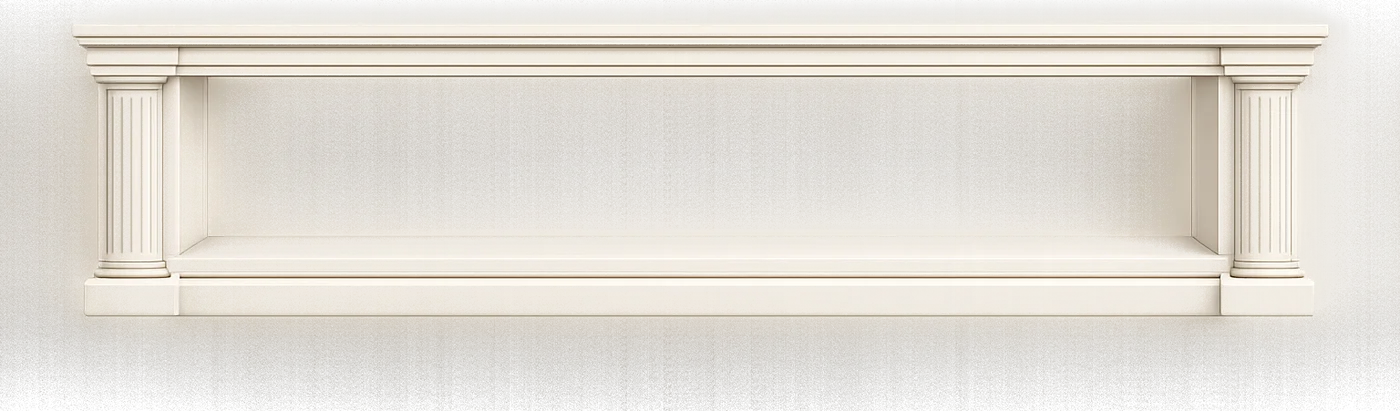
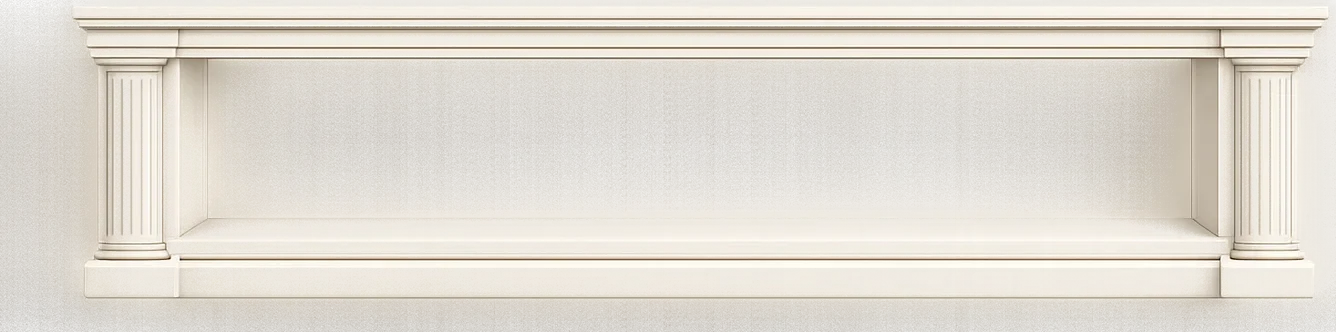
fix: 棚画像をトリミングし端の切り替えを安定させる
- 棚の内側に敷いていた目地の面を撤去する。移動感を足す狙いだったが、
  無数の縦線として見えてしまい造作を壊していた
- 端の開閉をスクロール位置ではなく「送れる棚か」で決める。位置で切り替えると
  枠が戻る → 中身の幅が変わる → 判定が変わる、の往復が起きて表示が乱れていた。
  送れる棚では両端を開けたままにし、送っている間レイアウトを動かさない
- 棚画像の透明な余白を切り落とす。横 1400x332 → 1336x332、縦 820x1478 → 719x1478。
  造作の位置がそのまま画像の座標になるので、slice の値が扱いやすくなる。
  切り落とし後の実測値で slice と枠幅を取り直す（表示は変えない）

Changed region(s): [[0.0, 0.0, 1.0, 1.0]]

diff --git a/frontend/src/components/features/display/ShelfBoard.tsx b/frontend/src/components/features/display/ShelfBoard.tsx
@@ -80,7 +80,7 @@ const SIDE_BORDER = 105
 export function SurfaceBoard({ surface, children }: { surface: Surface; children: ReactNode }) {
   const style = useDisplayStyle()
   const orientation = useShelfOrientation()
-  const { hostRef, atStart, atEnd } = useRailEdges(children)
+  const { hostRef, scrollable } = useRailEdges(children)
 
   if (style === 'simple' || surface !== 'library') return <>{children}</>
 
@@ -88,18 +88,21 @@ export function SurfaceBoard({ surface, children }: { surface: Surface; children
   const stacked = orientation === 'columns'
 
   /*
-    棚の切れ目。中身がまだ送れる側は、柱の枠幅を 0 にする。
+    棚の切れ目。中身が送りきれない棚は、両端の柱の枠幅を 0 にする。
 
     柱をマスクで透過させるだけだと、そこにあった幅が空白として残り、
     棚が痩せたように見えてしまう。棚が続いていることを示したいので、
     枠を落として *その幅を棚の内側に明け渡す*。中身もそのぶん広く使える。
 
+    開閉はスクロール位置ではなく「送れる棚か」で決める。位置で切り替えると
+    枠が戻る → 中身の幅が変わる → 判定が変わる、の往復が起きて表示が乱れるため。
+
     枠幅は 4 辺とも longhand で指定する。shorthand と混ぜると、
     値を戻したときに古い指定が残るかどうかがブラウザ任せになるため。
     切り口は短いマスクで和らげるだけに留める（幅は奪わない）。
   */
-  const openEnd = !atEnd
-  const openStart = !atStart
+  const openEnd = scrollable
+  const openStart = scrollable
   const softCut = 32
 
   /*
@@ -114,18 +117,18 @@ export function SurfaceBoard({ surface, children }: { surface: Surface; children
     ? {
         borderTopWidth: '116px',
         borderBottomWidth: '105px',
-        borderLeftWidth: '105px',
-        borderRightWidth: '105px',
+        borderLeftWidth: '82px',
+        borderRightWidth: '82px',
         borderImageSource: "url('/shelf/vertical.webp')",
-        borderImageSlice: '210 190 190 190 fill',
+        borderImageSlice: '210 150 190 150 fill',
       }
     : {
-        borderTopWidth: '44px',
-        borderBottomWidth: '84px',
+        borderTopWidth: '34px',
+        borderBottomWidth: '51px',
         borderLeftWidth: `${SIDE_BORDER}px`,
         borderRightWidth: `${SIDE_BORDER}px`,
         borderImageSource: "url('/shelf/horizontal.webp')",
-        borderImageSlice: '80 190 153 190 fill',
+        borderImageSlice: '62 190 92 190 fill',
       }
 
   return (
@@ -161,7 +164,7 @@ export function SurfaceBoard({ surface, children }: { surface: Surface; children
           こうするとアイテムは板の上に載って見え、スクロールバーは板の小口に重なる。
         */}
         <div
-          className={`shelf-inner relative z-10 min-w-0 flex-1 [&>[data-rail]>*]:drop-shadow-[0_6px_5px_rgba(0,0,0,0.22)] ${
+          className={`relative z-10 min-w-0 flex-1 [&>[data-rail]>*]:drop-shadow-[0_6px_5px_rgba(0,0,0,0.22)] ${
             stacked ? '' : '-mb-3 px-3 pt-4'
           }`}
         >
@@ -181,18 +184,18 @@ export function SurfaceBoard({ surface, children }: { surface: Surface; children
  */
 function useRailEdges(children: ReactNode) {
   const hostRef = useRef<HTMLDivElement>(null)
-  const [edges, setEdges] = useState({ atStart: true, atEnd: true })
+  const [edges, setEdges] = useState({ scrollable: false })
 
   useEffect(() => {
     const rail = hostRef.current?.querySelector<HTMLElement>('[data-rail]')
     if (!rail) return
 
     const update = () => {
-      const max = rail.scrollWidth - rail.clientWidth
-      const next = { atStart: rail.scrollLeft <= 1, atEnd: max <= 1 || rail.scrollLeft >= max - 1 }
-      setEdges((prev) =>
-        prev.atStart === next.atStart && prev.atEnd === next.atEnd ? prev : next
-      )
+      // 枠を出し入れすると中身の幅が変わり、その結果また判定が変わる。
+      // 位置で切り替えると往復して表示が乱れるため、「送れる棚か」だけで決める。
+      // 送れる棚では両端を開けたままにし、レイアウトを動かさない。
+      const scrollable = rail.scrollWidth - rail.clientWidth > 1
+      setEdges((prev) => (prev.scrollable === scrollable ? prev : { scrollable }))
     }
     update()
     rail.addEventListener('scroll', update, { passive: true })

diff --git a/frontend/src/app/globals.css b/frontend/src/app/globals.css
@@ -2977,29 +2977,3 @@
 :root[data-motion='off'] .sw-point {
   transition: none;
 }
-
-/*
-  ライブラリの横棚の内側。棚の絵（border-image）は中央を引き伸ばして描くため、
-  送っても背景が動かず、視点が横へ移動している感じが出ない。
-  そこで内側に石の目地の面を重ね、スクロール枠自身の背景として敷く。
-  background-attachment: local により、この面は中身と一緒に流れる。
-  絵そのものではなく面の目地を動かすことで、棚の造作を壊さずに移動感だけを足す。
-*/
-.shelf-inner > [data-rail] {
-  background-image:
-    repeating-linear-gradient(
-      to right,
-      transparent 0 118px,
-      color-mix(in srgb, var(--ivory-dark) 62%, var(--foreground)) 118px 119px,
-      transparent 119px 120px
-    ),
-    repeating-linear-gradient(
-      to right,
-      transparent 0 39px,
-      color-mix(in srgb, var(--ivory-dark) 80%, var(--foreground)) 39px 40px
-    );
-  background-repeat: repeat-x, repeat-x;
-  background-size: auto 100%, auto 100%;
-  background-attachment: local, local;
-  background-position: left bottom, left bottom;
-}
